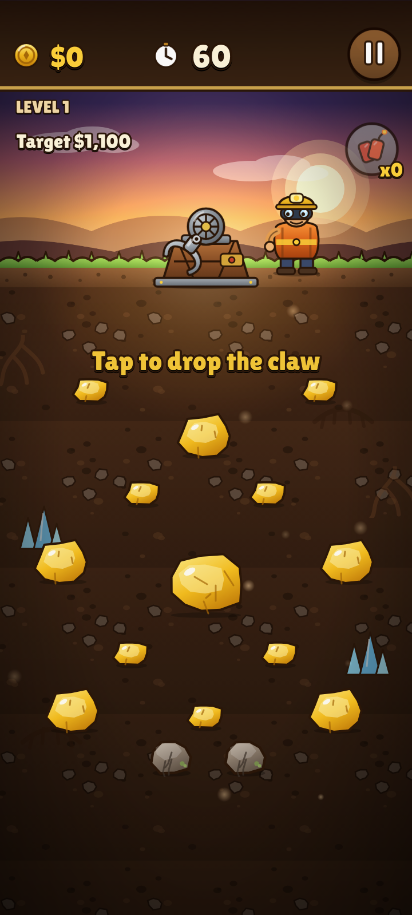
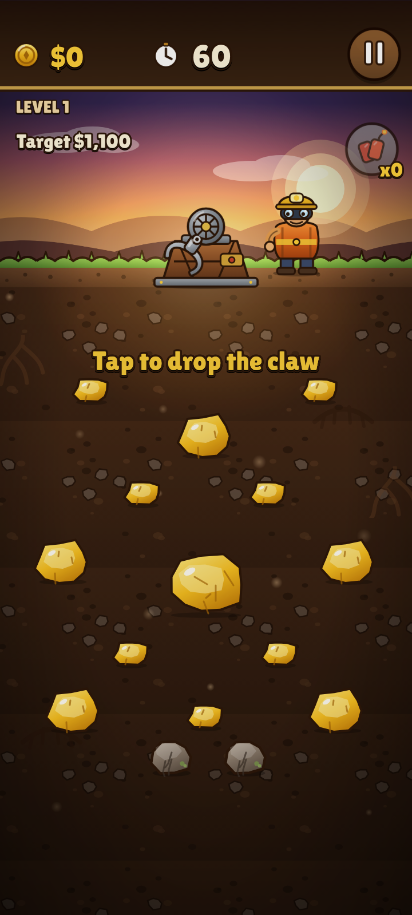
Shorter diamond art, harder economy (60% wallet share, higher prices), 3 new shop items: Hourglass, Gold Fever, Extra Miner
Claude-Session: https://claude.ai/code/session_01MzS7agv8rYuzaX6HZ42hxe

diff --git a/tests/economy.test.ts b/tests/economy.test.ts
@@ -1,5 +1,5 @@
 import { describe, expect, it } from 'vitest';
-import { SAVE, SHOP } from '../src/config/economy';
+import { ITEMS, SAVE, SHOP } from '../src/config/economy';
 import { LEVELS } from '../src/data/levels';
 import { starsFor, rollBag, bagExpectedValue, NO_MODIFIERS } from '../src/systems/Economy';
 import { commitOutcome, leaveShop } from '../src/systems/Progress';
@@ -14,21 +14,22 @@ describe('shop', () => {
     expect(a[0].id).toBe('blastCap');
     expect(rollShop(42, 3)).toEqual(a);
     const ids = new Set<string>();
-    for (let seed = 0; seed < 40; seed++) rollShop(seed, 1).forEach((o) => ids.add(o.id));
-    expect(ids.size).toBe(5); // every item can show up
+    for (let seed = 0; seed < 200; seed++) rollShop(seed, 1).forEach((o) => ids.add(o.id));
+    expect(ids.size).toBe(8); // every item can show up
   });
 
-  it('prices stay inside the configured ranges', () => {
+  it('prices stay inside the configured ranges and are expensive', () => {
     for (let seed = 0; seed < 100; seed++) {
       for (const o of rollShop(seed, 10)) {
-        if (o.id === 'turbo') expect(o.price).toBeGreaterThanOrEqual(300), expect(o.price).toBeLessThanOrEqual(500);
-        if (o.id === 'lantern') expect(o.price).toBeGreaterThanOrEqual(200), expect(o.price).toBeLessThanOrEqual(400);
-        if (o.id === 'gemLens') expect(o.price).toBeGreaterThanOrEqual(350), expect(o.price).toBeLessThanOrEqual(600);
-        if (o.id === 'crusher') expect(o.price).toBeGreaterThanOrEqual(50), expect(o.price).toBeLessThanOrEqual(150);
+        const def = ITEMS[o.id];
+        if (o.id === 'blastCap') continue;
+        expect(o.price).toBeGreaterThanOrEqual(def.priceMin);
+        expect(o.price).toBeLessThanOrEqual(def.priceMax);
       }
     }
-    expect(blastCapPrice(1)).toBe(150);
-    expect(blastCapPrice(100)).toBe(250);
+    expect(blastCapPrice(1)).toBe(400);
+    expect(blastCapPrice(100)).toBe(900);
+    expect(ITEMS.extraMiner.priceMin).toBeGreaterThanOrEqual(3000);
   });
 
   it('cannot buy without money', () => {
@@ -41,14 +42,14 @@ describe('shop', () => {
 
   it('Blast Caps stack, boosts are bought once', () => {
     const save = defaultSave();
-    save.wallet = 1000;
+    save.wallet = 2000;
     expect(buy(save, { id: 'blastCap', price: 150 }).ok).toBe(true);
     expect(buy(save, { id: 'blastCap', price: 150 }).ok).toBe(true);
     expect(save.inventory.blastCaps).toBe(2);
-    expect(save.wallet).toBe(700);
+    expect(save.wallet).toBe(1700);
     expect(buy(save, { id: 'turbo', price: 300 }).ok).toBe(true);
     expect(buy(save, { id: 'turbo', price: 300 })).toEqual({ ok: false, reason: 'owned' });
-    expect(save.wallet).toBe(400);
+    expect(save.wallet).toBe(1400);
     expect(activeModifiers(save).turbo).toBe(true);
   });
 
@@ -68,7 +69,7 @@ describe('progress and one-level effects', () => {
     const t = LEVELS[0].target;
     const r = commitOutcome(save, won(1, Math.ceil(t * 1.3)), 7)!;
     expect(r.stars).toBe(2);
-    expect(save.wallet).toBe(Math.ceil(t * 1.3));
+    expect(save.wallet).toBe(Math.round(Math.ceil(t * 1.3) * SHOP.walletShare));
     expect(save.unlockedLevel).toBe(2);
     expect(save.currentLevel).toBe(2);
     expect(save.phase).toBe('shop');

diff --git a/src/config/economy.ts b/src/config/economy.ts
@@ -64,10 +64,10 @@ export const BAG = {
   itemNotionalValue: 150,
 } as const;
 
-export type ItemId = 'blastCap' | 'turbo' | 'lantern' | 'gemLens' | 'crusher';
+export type ItemId = 'blastCap' | 'turbo' | 'lantern' | 'gemLens' | 'crusher' | 'hourglass' | 'goldRush' | 'extraMiner';
 export type BoostId = Exclude<ItemId, 'blastCap'>;
 
-export const BOOST_IDS: readonly BoostId[] = ['turbo', 'lantern', 'gemLens', 'crusher'];
+export const BOOST_IDS: readonly BoostId[] = ['turbo', 'lantern', 'gemLens', 'crusher', 'hourglass', 'goldRush', 'extraMiner'];
 
 export interface ItemDef {
   id: ItemId;
@@ -78,21 +78,26 @@ export interface ItemDef {
 }
 
 export const ITEMS: Record<ItemId, ItemDef> = {
-  blastCap: { id: 'blastCap', kind: 'stack', priceMin: 150, priceMax: 250, icon: 'icon_blast' },
-  turbo: { id: 'turbo', kind: 'boost', priceMin: 300, priceMax: 500, icon: 'icon_turbo' },
-  lantern: { id: 'lantern', kind: 'boost', priceMin: 200, priceMax: 400, icon: 'icon_lantern' },
-  gemLens: { id: 'gemLens', kind: 'boost', priceMin: 350, priceMax: 600, icon: 'icon_gem' },
-  crusher: { id: 'crusher', kind: 'boost', priceMin: 50, priceMax: 150, icon: 'icon_crusher' },
+  blastCap: { id: 'blastCap', kind: 'stack', priceMin: 400, priceMax: 900, icon: 'icon_blast' },
+  turbo: { id: 'turbo', kind: 'boost', priceMin: 900, priceMax: 1500, icon: 'icon_turbo' },
+  lantern: { id: 'lantern', kind: 'boost', priceMin: 600, priceMax: 1100, icon: 'icon_lantern' },
+  gemLens: { id: 'gemLens', kind: 'boost', priceMin: 1000, priceMax: 1800, icon: 'icon_gem' },
+  crusher: { id: 'crusher', kind: 'boost', priceMin: 300, priceMax: 600, icon: 'icon_crusher' },
+  hourglass: { id: 'hourglass', kind: 'boost', priceMin: 1200, priceMax: 2000, icon: 'icon_hourglass' },
+  goldRush: { id: 'goldRush', kind: 'boost', priceMin: 1500, priceMax: 2500, icon: 'icon_goldrush' },
+  extraMiner: { id: 'extraMiner', kind: 'boost', priceMin: 3000, priceMax: 4500, icon: 'icon_miner' },
 };
 
-export const ITEM_IDS: readonly ItemId[] = ['blastCap', 'turbo', 'lantern', 'gemLens', 'crusher'];
+export const ITEM_IDS: readonly ItemId[] = ['blastCap', 'turbo', 'lantern', 'gemLens', 'crusher', 'hourglass', 'goldRush', 'extraMiner'];
 
 export const SHOP = {
   /** Blast Cap price rises by this much per cleared level, capped at priceMax. */
-  blastCapStep: 5,
+  blastCapStep: 25,
   /** Boost items shown per visit (Blast Cap is always shown). */
-  boostSlots: 3,
+  boostSlots: 4,
   maxBlastCaps: 9,
+  /** Share of a first-clear level's earnings that goes into the wallet (the rest is running costs). */
+  walletShare: 0.6,
 } as const;
 
 export const EFFECTS = {
@@ -102,6 +107,12 @@ export const EFFECTS = {
   gemLensMult: 1.5,
   /** Ore Crusher: rock value multiplier. */
   crusherMult: 3,
+  /** Hourglass: extra seconds. */
+  hourglassSec: 15,
+  /** Gold Fever: gold nugget value multiplier. */
+  goldRushMult: 1.5,
+  /** Extra Miner: the helper pulls up the nearest gold or diamond this often (s). */
+  helperIntervalSec: 7,
 } as const;
 
 export const SAVE = {

diff --git a/src/systems/Session.ts b/src/systems/Session.ts
@@ -1,4 +1,5 @@
 import { BEETLE, KEG, LEVEL_RULES, CLAW, WORLD } from '../config/game';
+import { EFFECTS } from '../config/economy';
 import { BEETLE_DIAMOND_VALUE, BAG, OBJECTS, SHOP, type ObjType } from '../config/economy';
 import type { LevelDef } from '../data/levels';
 import { Claw, type ClawHost } from './Claw';
@@ -63,13 +64,15 @@ export class Session implements ClawHost {
   status: 'playing' | 'won' | 'lost' = 'playing';
   events: SessionEvent[] = [];
   elapsed = 0;
+  private helperTimer = 0;
 
   constructor(opts: SessionOptions) {
     this.level = opts.level;
     this.mods = opts.modifiers ?? NO_MODIFIERS;
     this.blastCaps = opts.blastCaps ?? 0;
     this.rng = opts.rng ?? makeRng(randomSeed());
-    this.timeLeft = opts.durationSec ?? LEVEL_RULES.durationSec;
+    this.timeLeft = (opts.durationSec ?? LEVEL_RULES.durationSec) + (this.mods.hourglass ? EFFECTS.hourglassSec : 0);
+    this.helperTimer = EFFECTS.helperIntervalSec;
     this.claw = new Claw(WORLD.pivotX, WORLD.pivotY);
 
     let id = 1;
@@ -189,6 +192,7 @@ export class Session implements ClawHost {
     }
 
     this.moveBeetles(dt);
+    if (this.mods.extraMiner) this.runHelper(dt);
 
     this.claw.update(dt, this, this.level.swingMult ?? 1);
     for (const ev of this.claw.events) {
@@ -214,6 +218,30 @@ export class Session implements ClawHost {
     }
 
     this.checkEnd();
+  }
+
+  /** Extra Miner: every few seconds the helper pulls up the closest free gold or diamond. */
+  private runHelper(dt: number): void {
+    this.helperTimer -= dt;
+    if (this.helperTimer > 0 || this.timeLeft <= 0) return;
+    this.helperTimer = EFFECTS.helperIntervalSec;
+    let best: Entity | null = null;
+    let bestD = Infinity;
+    for (const e of this.entities) {
+      if (!e.alive || e.hooked) continue;
+      if (e.type !== 'goldS' && e.type !== 'goldM' && e.type !== 'goldL' && e.type !== 'diamond') continue;
+      const d = Math.hypot(e.x - WORLD.pivotX, e.y - WORLD.pivotY);
+      if (d < bestD) {
+        bestD = d;
+        best = e;
+      }
+    }
+    if (!best) return;
+    best.alive = false;
+    this.shapesDirty = true;
+    const value = collectValue(best.type, this.mods, false);
+    this.earned += value;
+    this.events.push({ type: 'collect', id: best.id, kind: best.type, value, x: best.x, y: best.y });
   }
 
   private moveBeetles(dt: number): void {

diff --git a/src/scenes/Shop.ts b/src/scenes/Shop.ts
@@ -53,9 +53,9 @@ export class Shop extends Phaser.Scene {
     this.floats = new FloatingTexts(this, 4, 60);
 
     const offers = rollShop(shop.seed, shop.afterLevel);
-    const cardH = 172;
-    const gap = 16;
-    const y0 = topY + 330;
+    const cardH = 146;
+    const gap = 10;
+    const y0 = topY + 296;
     offers.forEach((offer, i) => this.buildRow(offer, cx, y0 + i * (cardH + gap), cardH));
 
     const finished = shop.afterLevel >= LEVELS.length;
@@ -86,21 +86,21 @@ export class Shop extends Phaser.Scene {
     c.add(panel(this, cx, y, 660, h));
     const icon = IMAGES.icon_blast; // all icons share the 64x64 size
     c.add(this.add.image(cx - 270, y, ITEMS[id].icon).setDisplaySize(icon.w * 1.45, icon.h * 1.45));
-    c.add(txt(this, cx - 205, y - 46, text.name, 34, { originX: 0, color: COLORS.textGold, strokeW: 5, wrap: 270, align: 'left' }));
-    c.add(txt(this, cx - 205, y + 20, text.desc, 21, { originX: 0, strokeW: 3, wrap: 290, align: 'left', shadow: false }));
-    const owned = ITEMS[id].kind === 'stack' ? txt(this, cx + 232, y + 66, '', 24, { color: COLORS.textGreen, strokeW: 4 }) : undefined;
+    c.add(txt(this, cx - 205, y - 42, text.name, 32, { originX: 0, color: COLORS.textGold, strokeW: 5, wrap: 270, align: 'left' }));
+    c.add(txt(this, cx - 205, y + 14, text.desc, 20, { originX: 0, strokeW: 3, wrap: 290, align: 'left', shadow: false }));
+    const owned = ITEMS[id].kind === 'stack' ? txt(this, cx + 232, y + 58, '', 22, { color: COLORS.textGreen, strokeW: 4 }) : undefined;
     if (owned) c.add(owned);
-    const button = new Button(this, cx + 232, y - 12, {
-      w: 190,
-      h: 104,
+    const button = new Button(this, cx + 232, y - 10, {
+      w: 200,
+      h: 96,
       label: money(offer.price),
-      fontSize: 34,
+      fontSize: 32,
       tint: COLORS.gold,
       onClick: () => this.tryBuy(offer),
       silent: true,
     });
     c.add(button);
-    const status = txt(this, cx + 232, y - 12, '', 40, { color: COLORS.textGreen, strokeW: 6 }).setVisible(false);
+    const status = txt(this, cx + 232, y - 10, '', 40, { color: COLORS.textGreen, strokeW: 6 }).setVisible(false);
     c.add(status);
     this.rows.push({ offer, button, status, owned, container: c });
   }

diff --git a/tests/session.test.ts b/tests/session.test.ts
@@ -233,6 +233,38 @@ describe('modifiers', () => {
   });
 });
 
+describe('new shop items', () => {
+  it('Hourglass adds 15 seconds', () => {
+    const a = new Session({ level: level([o('goldS', 100, 1100)]), rng: makeRng(1) });
+    const b = new Session({ level: level([o('goldS', 100, 1100)]), modifiers: { ...NO_MODIFIERS, hourglass: true }, rng: makeRng(1) });
+    expect(b.timeLeft - a.timeLeft).toBe(15);
+  });
+  it('Gold Fever: gold x1.5, rocks and diamonds unchanged', () => {
+    const play = (type: LevelObject['type']) => {
+      const s = new Session({ level: level([below(type, 450), o('goldS', 100, 1100)]), modifiers: { ...NO_MODIFIERS, goldRush: true }, rng: makeRng(1) });
+      pull(s, 90);
+      return s.earned;
+    };
+    expect(play('goldM')).toBe(375);
+    expect(play('diamond')).toBe(600);
+    expect(play('rockS')).toBe(10);
+  });
+  it('Extra Miner collects the nearest gold on a timer and never takes rocks', () => {
+    const s = new Session({
+      level: level([o('goldS', 200, 500), o('goldM', 500, 900), o('rockS', 360, 400)], 100000),
+      modifiers: { ...NO_MODIFIERS, extraMiner: true },
+      rng: makeRng(1),
+    });
+    for (let t = 0; t < 7.2; t += 1 / 60) s.update(1 / 60);
+    expect(s.earned).toBe(100);
+    for (let t = 0; t < 7.2; t += 1 / 60) s.update(1 / 60);
+    expect(s.earned).toBe(350);
+    for (let t = 0; t < 20; t += 1 / 60) s.update(1 / 60);
+    expect(s.earned).toBe(350);
+    expect(s.entities.find((e) => e.type === 'rockS')?.alive).toBe(true);
+  });
+});
+
 describe('beetles', () => {
   it('walk inside their lane and bounce at the ends', () => {
     const s = new Session({

diff --git a/src/scenes/Game.ts b/src/scenes/Game.ts
@@ -144,6 +144,9 @@ export class Game extends Phaser.Scene {
       .setOrigin(0.5, 1)
       .setDisplaySize(118, 150)
       .setDepth(D.rig + 1);
+    if (this.session.mods.extraMiner) {
+      this.add.image(px - 150, WORLD.surfaceY + 4, 'miner').setOrigin(0.5, 1).setDisplaySize(96, 122).setDepth(D.rig + 1).setTint(0xb8d8ff);
+    }
     this.rope = this.add.tileSprite(px, py, 10, 4, 'rope').setOrigin(0.5, 0).setDepth(D.rope);
     this.drum = this.add.image(px, py, 'winch_drum').setDisplaySize(70, 70).setDepth(D.rope + 0.2);
     this.clawImg = this.add.image(px, py, 'claw_open').setOrigin(0.5, 0).setDisplaySize(90, 72).setDepth(D.claw);
@@ -240,11 +243,14 @@ export class Game extends Phaser.Scene {
 
     // active one-level boosts
     const mods = this.session.mods;
-    const icons: Array<[boolean, 'icon_turbo' | 'icon_lantern' | 'icon_gem' | 'icon_crusher']> = [
+    const icons: Array<[boolean, 'icon_turbo' | 'icon_lantern' | 'icon_gem' | 'icon_crusher' | 'icon_hourglass' | 'icon_goldrush' | 'icon_miner']> = [
       [mods.turbo, 'icon_turbo'],
       [mods.lantern, 'icon_lantern'],
       [mods.gemLens, 'icon_gem'],
       [mods.crusher, 'icon_crusher'],
+      [mods.hourglass, 'icon_hourglass'],
+      [mods.goldRush, 'icon_goldrush'],
+      [mods.extraMiner, 'icon_miner'],
     ];
     let bx = E.left + 24 + 26;
     for (const [on, key] of icons) {

diff --git a/src/assets/manifest.ts b/src/assets/manifest.ts
@@ -31,7 +31,7 @@ export const IMAGES = {
   deco_fossil: { file: 'deco_fossil.svg', w: 120, h: 70 },
   deco_roots: { file: 'deco_roots.svg', w: 110, h: 90 },
   deco_sun: { file: 'deco_sun.svg', w: 180, h: 180 },
-  diamond: { file: 'diamond.svg', w: 76, h: 76 },
+  diamond: { file: 'diamond.svg', w: 64, h: 52 },
   drop: { file: 'drop.svg', w: 20, h: 30 },
   dust: { file: 'dust.svg', w: 24, h: 24 },
   glow: { file: 'glow.svg', w: 256, h: 256 },
@@ -45,6 +45,9 @@ export const IMAGES = {
   icon_crusher: { file: 'icon_crusher.svg', w: 64, h: 64 },
   icon_gear: { file: 'icon_gear.svg', w: 64, h: 64 },
   icon_gem: { file: 'icon_gem.svg', w: 64, h: 64 },
+  icon_hourglass: { file: 'icon_hourglass.svg', w: 64, h: 64 },
+  icon_goldrush: { file: 'icon_goldrush.svg', w: 64, h: 64 },
+  icon_miner: { file: 'icon_miner.svg', w: 64, h: 64 },
   icon_lantern: { file: 'icon_lantern.svg', w: 64, h: 64 },
   icon_lock: { file: 'icon_lock.svg', w: 64, h: 64 },
   icon_mute: { file: 'icon_mute.svg', w: 64, h: 64 },

diff --git a/src/systems/Economy.ts b/src/systems/Economy.ts
@@ -7,9 +7,12 @@ export interface Modifiers {
   lantern: boolean;
   gemLens: boolean;
   crusher: boolean;
+  hourglass: boolean;
+  goldRush: boolean;
+  extraMiner: boolean;
 }
 
-export const NO_MODIFIERS: Modifiers = { turbo: false, lantern: false, gemLens: false, crusher: false };
+export const NO_MODIFIERS: Modifiers = { turbo: false, lantern: false, gemLens: false, crusher: false, hourglass: false, goldRush: false, extraMiner: false };
 
 /** Money paid when a plain (non bag) object reaches the surface. */
 export function collectValue(type: ObjType, mods: Modifiers, carriesDiamond = false): number {
@@ -29,7 +32,7 @@ export function collectValue(type: ObjType, mods: Modifiers, carriesDiamond = fa
     case 'keg':
       return 0;
     default:
-      return def.value;
+      return Math.round(def.value * (mods.goldRush ? EFFECTS.goldRushMult : 1));
   }
 }
 

diff --git a/src/systems/Progress.ts b/src/systems/Progress.ts
@@ -1,6 +1,7 @@
 import { LEVELS } from '../data/levels';
 import { BOOST_IDS } from '../config/economy';
 import { LEVEL_RULES } from '../config/game';
+import { SHOP } from '../config/economy';
 import { starsFor } from './Economy';
 import { randomSeed } from './Rng';
 import type { SaveData } from './Save';
@@ -43,7 +44,7 @@ export function commitOutcome(save: SaveData, o: LevelOutcome, seed: number = ra
 
   let walletGain = 0;
   if (firstClear) {
-    walletGain = o.earned;
+    walletGain = Math.round(o.earned * SHOP.walletShare);
     save.wallet += walletGain;
     save.unlockedLevel = Math.min(LEVELS.length, Math.max(save.unlockedLevel, o.levelId + 1));
     save.currentLevel = Math.min(LEVELS.length, o.levelId + 1);

diff --git a/src/i18n/tr.ts b/src/i18n/tr.ts
@@ -62,5 +62,8 @@ export const tr: Strings = {
     lantern: { name: 'Şanslı Fener', desc: 'Sonraki bölüm: Gizemli Torba ödülleri daha iyi.' },
     gemLens: { name: 'Mücevher Merceği', desc: 'Sonraki bölüm: elmaslar x1,5 değerinde.' },
     crusher: { name: 'Cevher Ezici', desc: 'Sonraki bölüm: kayalar x3 değerinde.' },
+    hourglass: { name: 'Kum Saati', desc: 'Sonraki bölüm: +15 saniye.' },
+    goldRush: { name: 'Altın Ateşi', desc: 'Sonraki bölüm: altınlar x1,5 değerinde.' },
+    extraMiner: { name: 'Yardımcı Madenci', desc: 'Sonraki bölüm: yardımcı 7 sn\'de bir en yakın altını alır.' },
   },
 };

diff --git a/src/i18n/en.ts b/src/i18n/en.ts
@@ -60,6 +60,9 @@ export const en = {
     lantern: { name: 'Lucky Lantern', desc: 'Next level: better Mystery Bag prizes.' },
     gemLens: { name: 'Gem Lens', desc: 'Next level: diamonds worth x1.5.' },
     crusher: { name: 'Ore Crusher', desc: 'Next level: rocks worth x3.' },
+    hourglass: { name: 'Hourglass', desc: 'Next level: +15 seconds.' },
+    goldRush: { name: 'Gold Fever', desc: 'Next level: gold nuggets worth x1.5.' },
+    extraMiner: { name: 'Extra Miner', desc: 'Next level: a helper grabs the nearest gold every 7 s.' },
   },
 } as const;
 

diff --git a/e2e/layout.spec.ts b/e2e/layout.spec.ts
@@ -102,7 +102,7 @@ test('screens gallery (shop, level select, complete, game over, pause, settings)
     const s = d.services.save.data;
     s.unlockedLevel = 8;
     s.currentLevel = 8;
-    s.wallet = 820;
+    s.wallet = 2820;
     s.hasProgress = true;
     s.inventory.blastCaps = 2;
     s.levels = { '1': { stars: 3, best: 1900 }, '2': { stars: 2, best: 2100 }, '3': { stars: 1, best: 1800 }, '4': { stars: 3, best: 3100 }, '5': { stars: 2, best: 2900 }, '6': { stars: 1, best: 2600 }, '7': { stars: 2, best: 3000 } };
